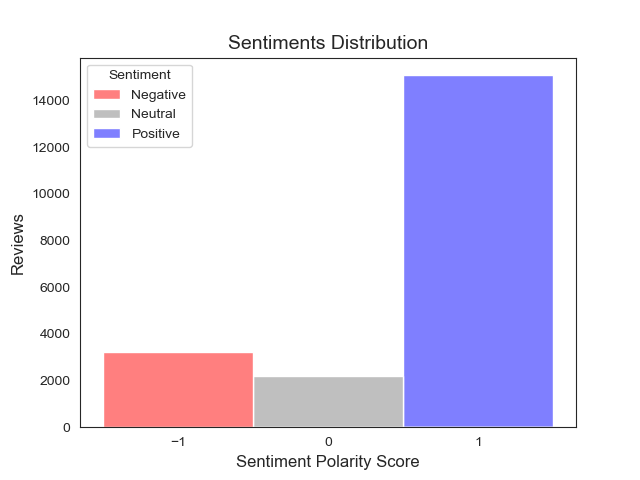
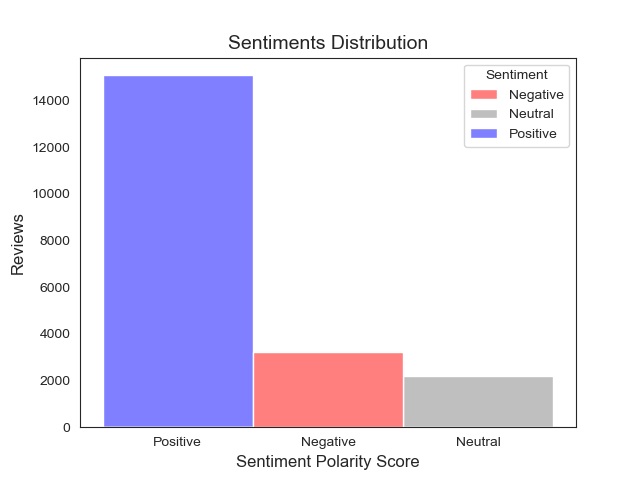
fixed plotting

diff --git a/src/data/dataset_analysis.py b/src/data/dataset_analysis.py
@@ -21,9 +21,8 @@ def ratings_hist(reviews_df: pd.DataFrame) -> None:
     fig.savefig('./data/plots/ratings_hist.png')
 
     plt.figure(2)
-    sns.histplot(data=df, x='Class', bins=3, palette=[
+    sns.histplot(data=df, x='Sentiment', bins=3, palette=[
         'Red', 'Gray', 'Blue'], hue='Sentiment', hue_order=['Negative', 'Neutral', 'Positive'], discrete=True)
-    plt.xticks([-1,0,1])
     plt.title('Sentiments Distribution', fontsize=14)
     plt.xlabel('Sentiment Polarity Score', fontsize=12)
     plt.ylabel('Reviews', fontsize=12)
